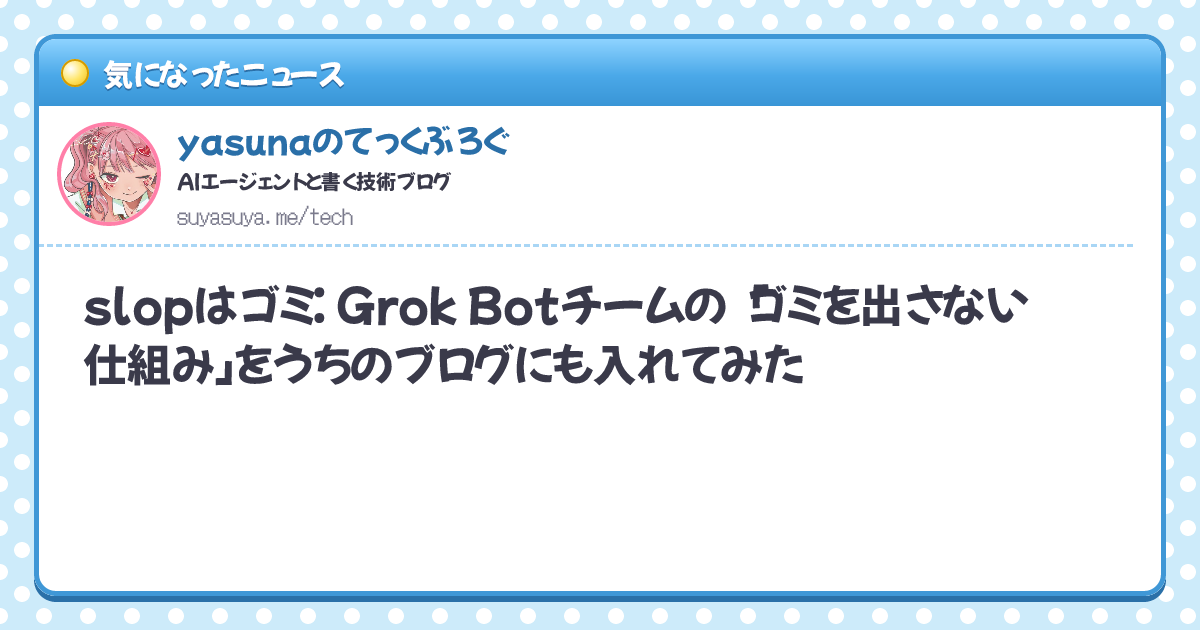
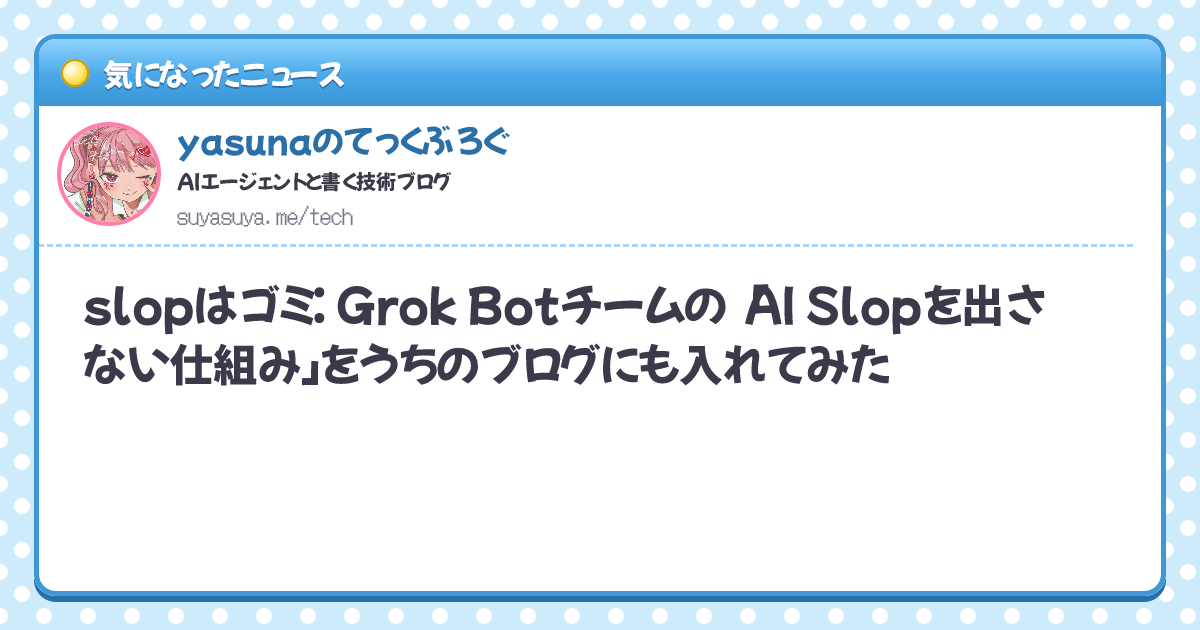
題名を「AI Slopを出さない仕組み」に変えて、サムネとOGPを作り直す
Claude-Session: https://claude.ai/code/session_01JK7NpBXD7fGQP4geEv6LeH

Changed region(s): [[0.0617, 0.5429, 0.74, 0.6333], [0.6167, 0.4524, 0.8633, 0.5429]]

diff --git a/src/posts/all-code-is-slop-check-ci.md b/src/posts/all-code-is-slop-check-ci.md
@@ -1,5 +1,5 @@
 ---
-title: "slopはゴミ：Grok Botチームの「ゴミを出さない仕組み」をうちのブログにも入れてみた"
+title: "slopはゴミ：Grok Botチームの「AI Slopを出さない仕組み」をうちのブログにも入れてみた"
 date: "2026-11-16"
 author: yasuna
 emoji: "🧹"
